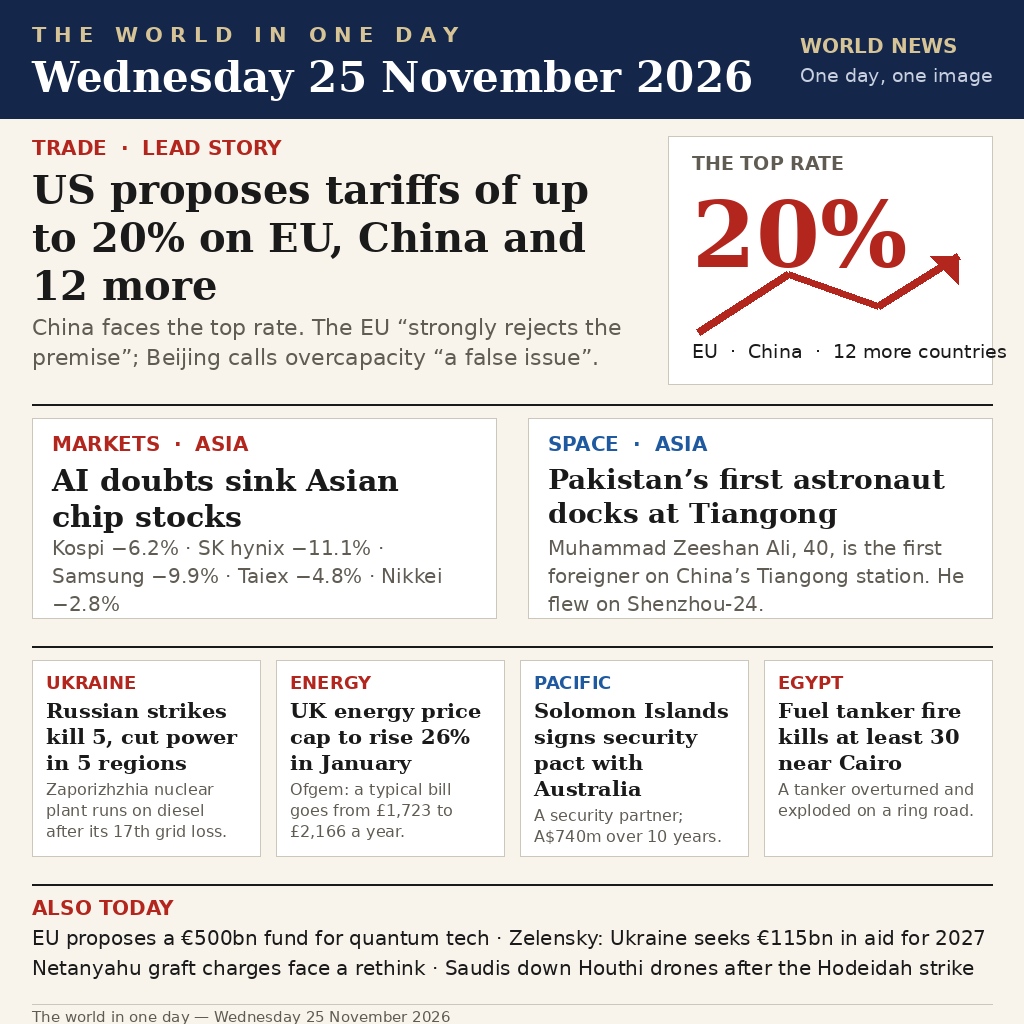
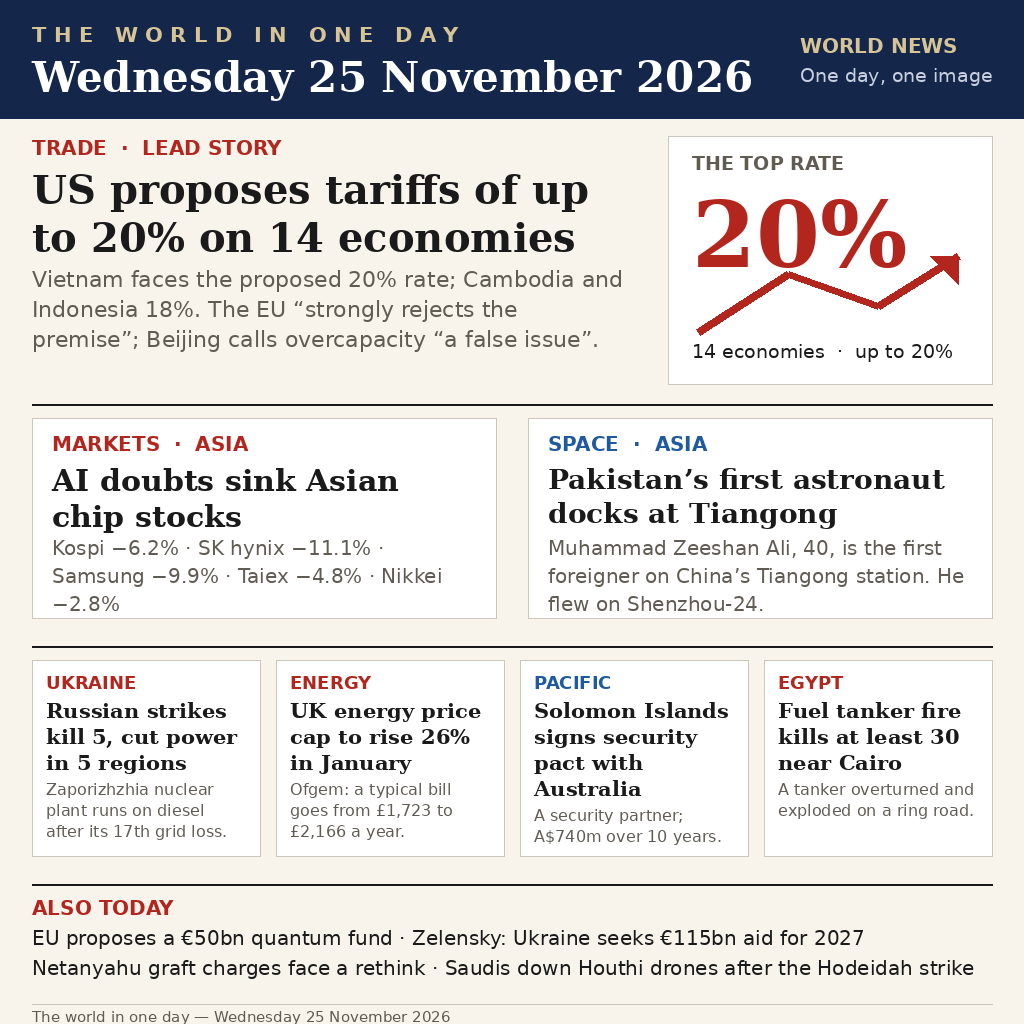
Fix two facts: Vietnam faces the 20% rate; EU quantum fund is 50bn, not 500bn

diff --git a/draw_poster.py b/draw_poster.py
@@ -90,12 +90,13 @@ def main():
     y = 136
     kicker(d, (32, y), "TRADE  ·  LEAD STORY")
     y += 30
-    y = para(d, (32, y), "US proposes tariffs of up to 20% on EU, China and 12 more",
+    y = para(d, (32, y), "US proposes tariffs of up to 20% on 14 economies",
              font(SERIF_B, 40), INK, 600, 48)
     y += 4
     y = para(d, (32, y),
-             "China faces the top rate. The EU \u201cstrongly rejects the premise\u201d; "
-             "Beijing calls overcapacity \u201ca false issue\u201d.",
+             "Vietnam faces the proposed 20% rate; Cambodia and Indonesia 18%. "
+             "The EU \u201cstrongly rejects the premise\u201d; Beijing calls "
+             "overcapacity \u201ca false issue\u201d.",
              font(SANS, 22), MUTED, 600, 30)
     # Right-hand graphic: a big 20% with a rising arrow.
     gx0, gy0, gx1, gy1 = 668, 136, 992, 384
@@ -108,7 +109,7 @@ def main():
            fill=RED, width=7)
     d.polygon([(gx0 + 290, gy1 - 128), (gx0 + 262, gy1 - 128),
                (gx0 + 290, gy1 - 100)], fill=RED)
-    d.text((gx0 + 24, gy1 - 44), "EU  ·  China  ·  12 more countries",
+    d.text((gx0 + 24, gy1 - 44), "14 economies  ·  up to 20%",
            font=font(SANS, 19), fill=INK)
 
     # ---- Second row: markets + space ------------------------------------
@@ -169,8 +170,8 @@ def main():
     d.text((32, y), "ALSO TODAY", font=font(SANS_B, 20), fill=RED)
     y += 30
     y = para(d, (32, y),
-             "EU proposes a \u20ac500bn fund for quantum tech  \u00b7  "
-             "Zelensky: Ukraine seeks \u20ac115bn in aid for 2027",
+             "EU proposes a \u20ac50bn quantum fund  \u00b7  "
+             "Zelensky: Ukraine seeks \u20ac115bn aid for 2027",
              font(SANS, 20), INK, 960, 28)
     y = para(d, (32, y + 2),
              "Netanyahu graft charges face a rethink  \u00b7  "
